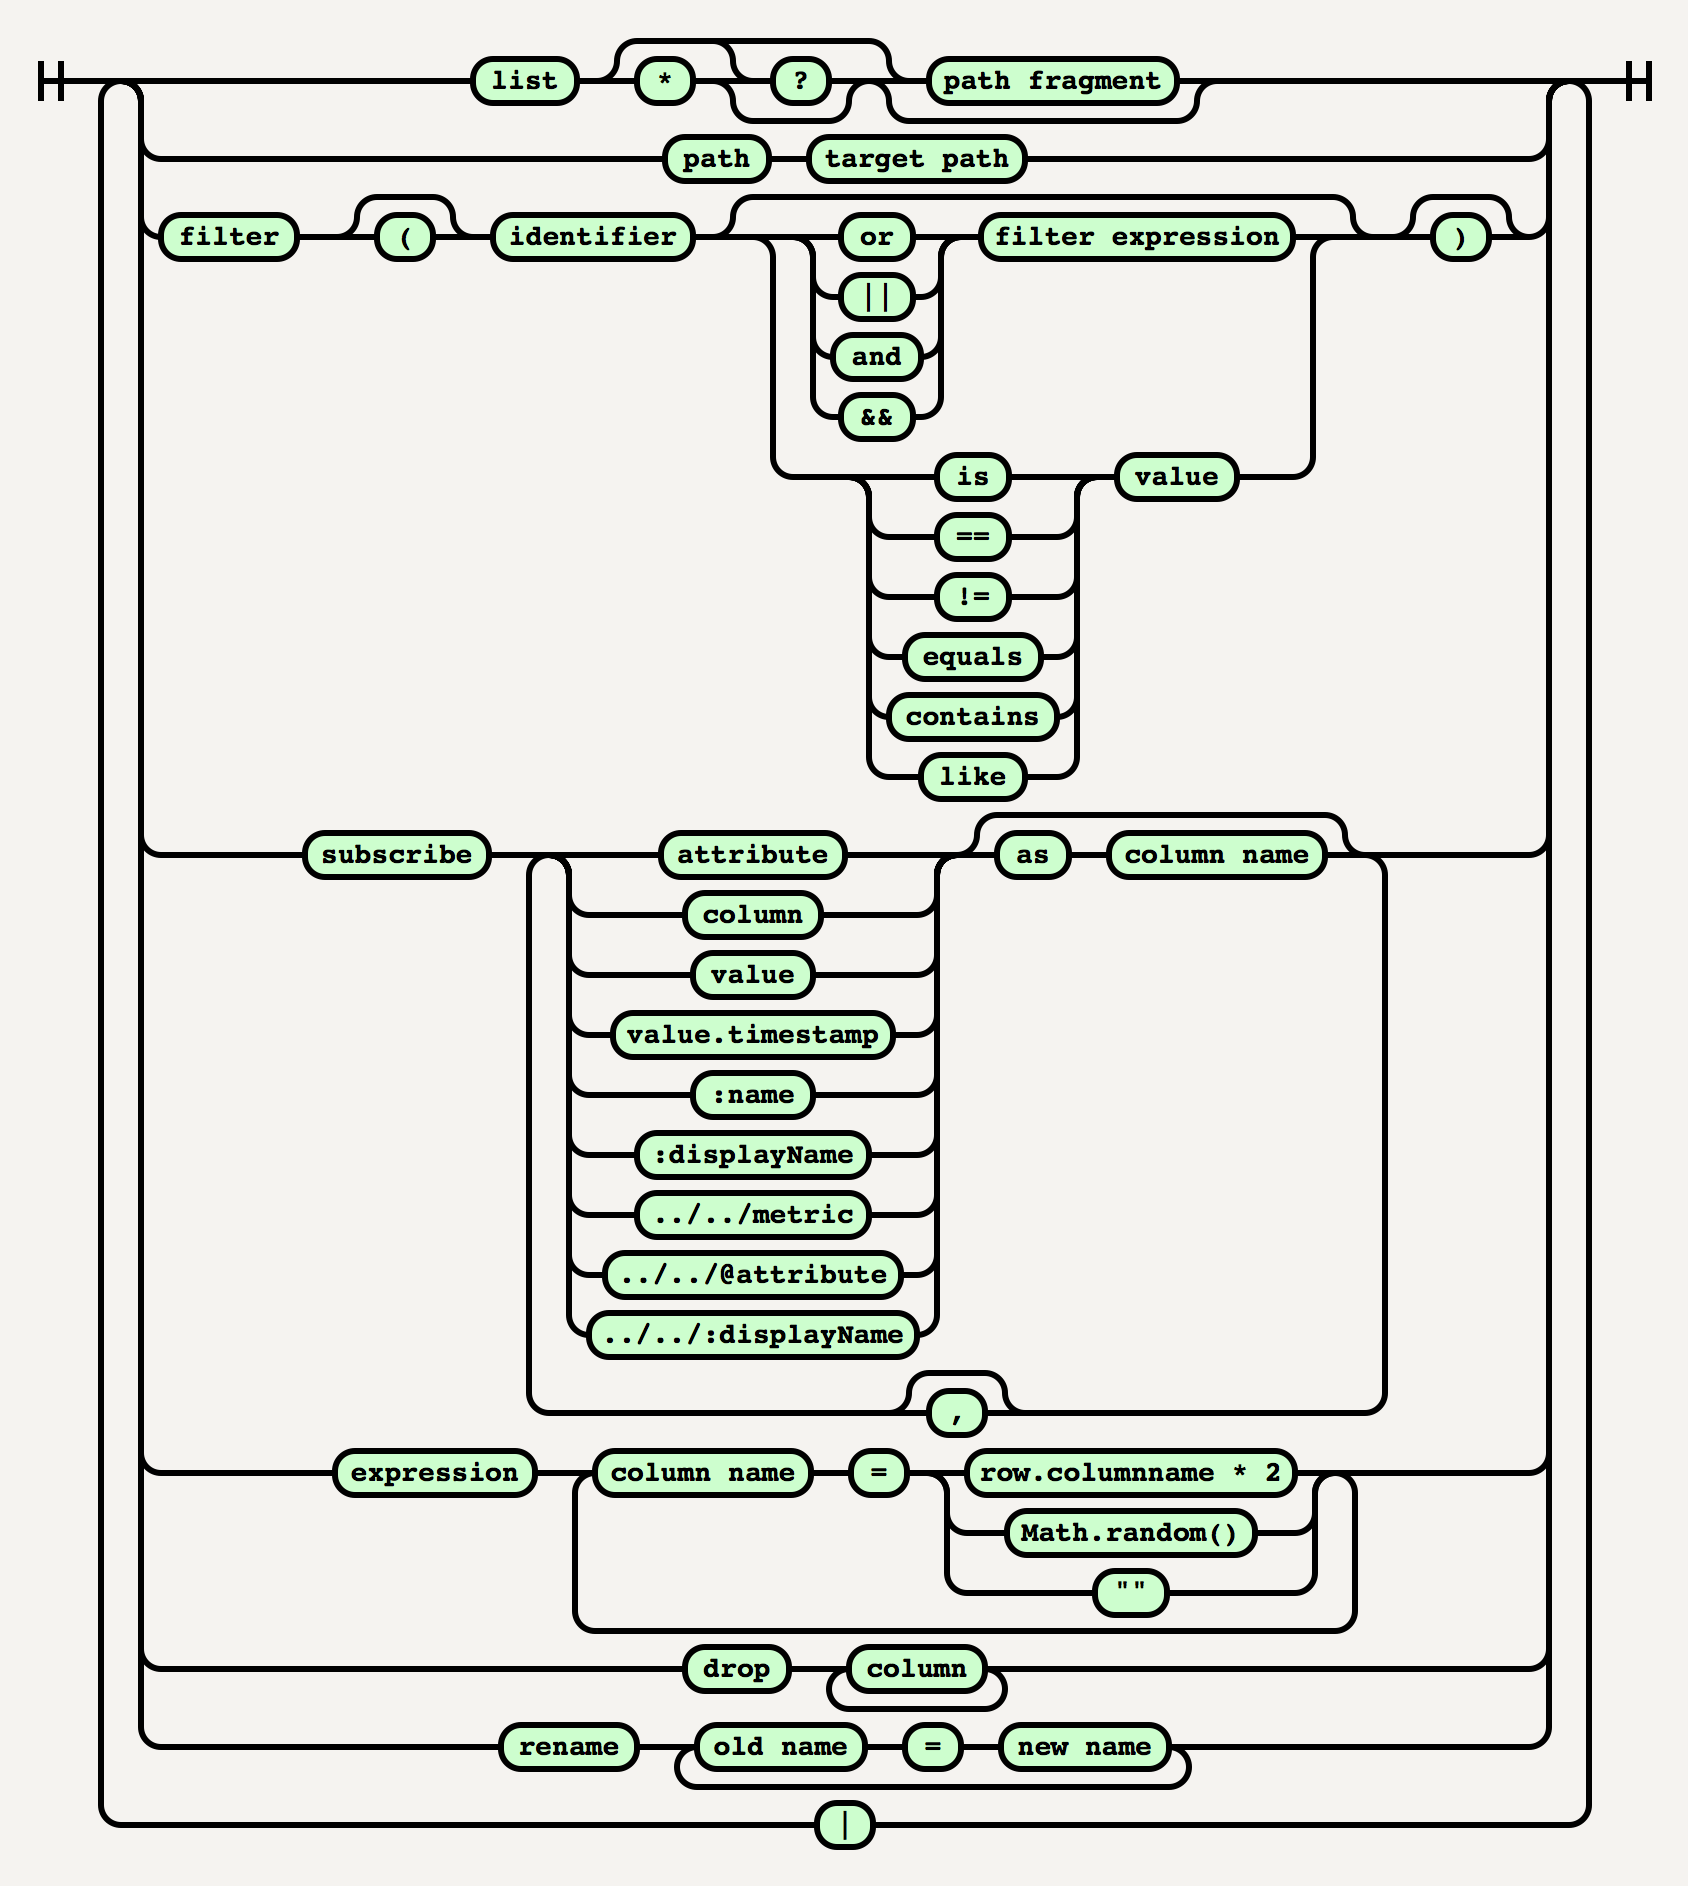
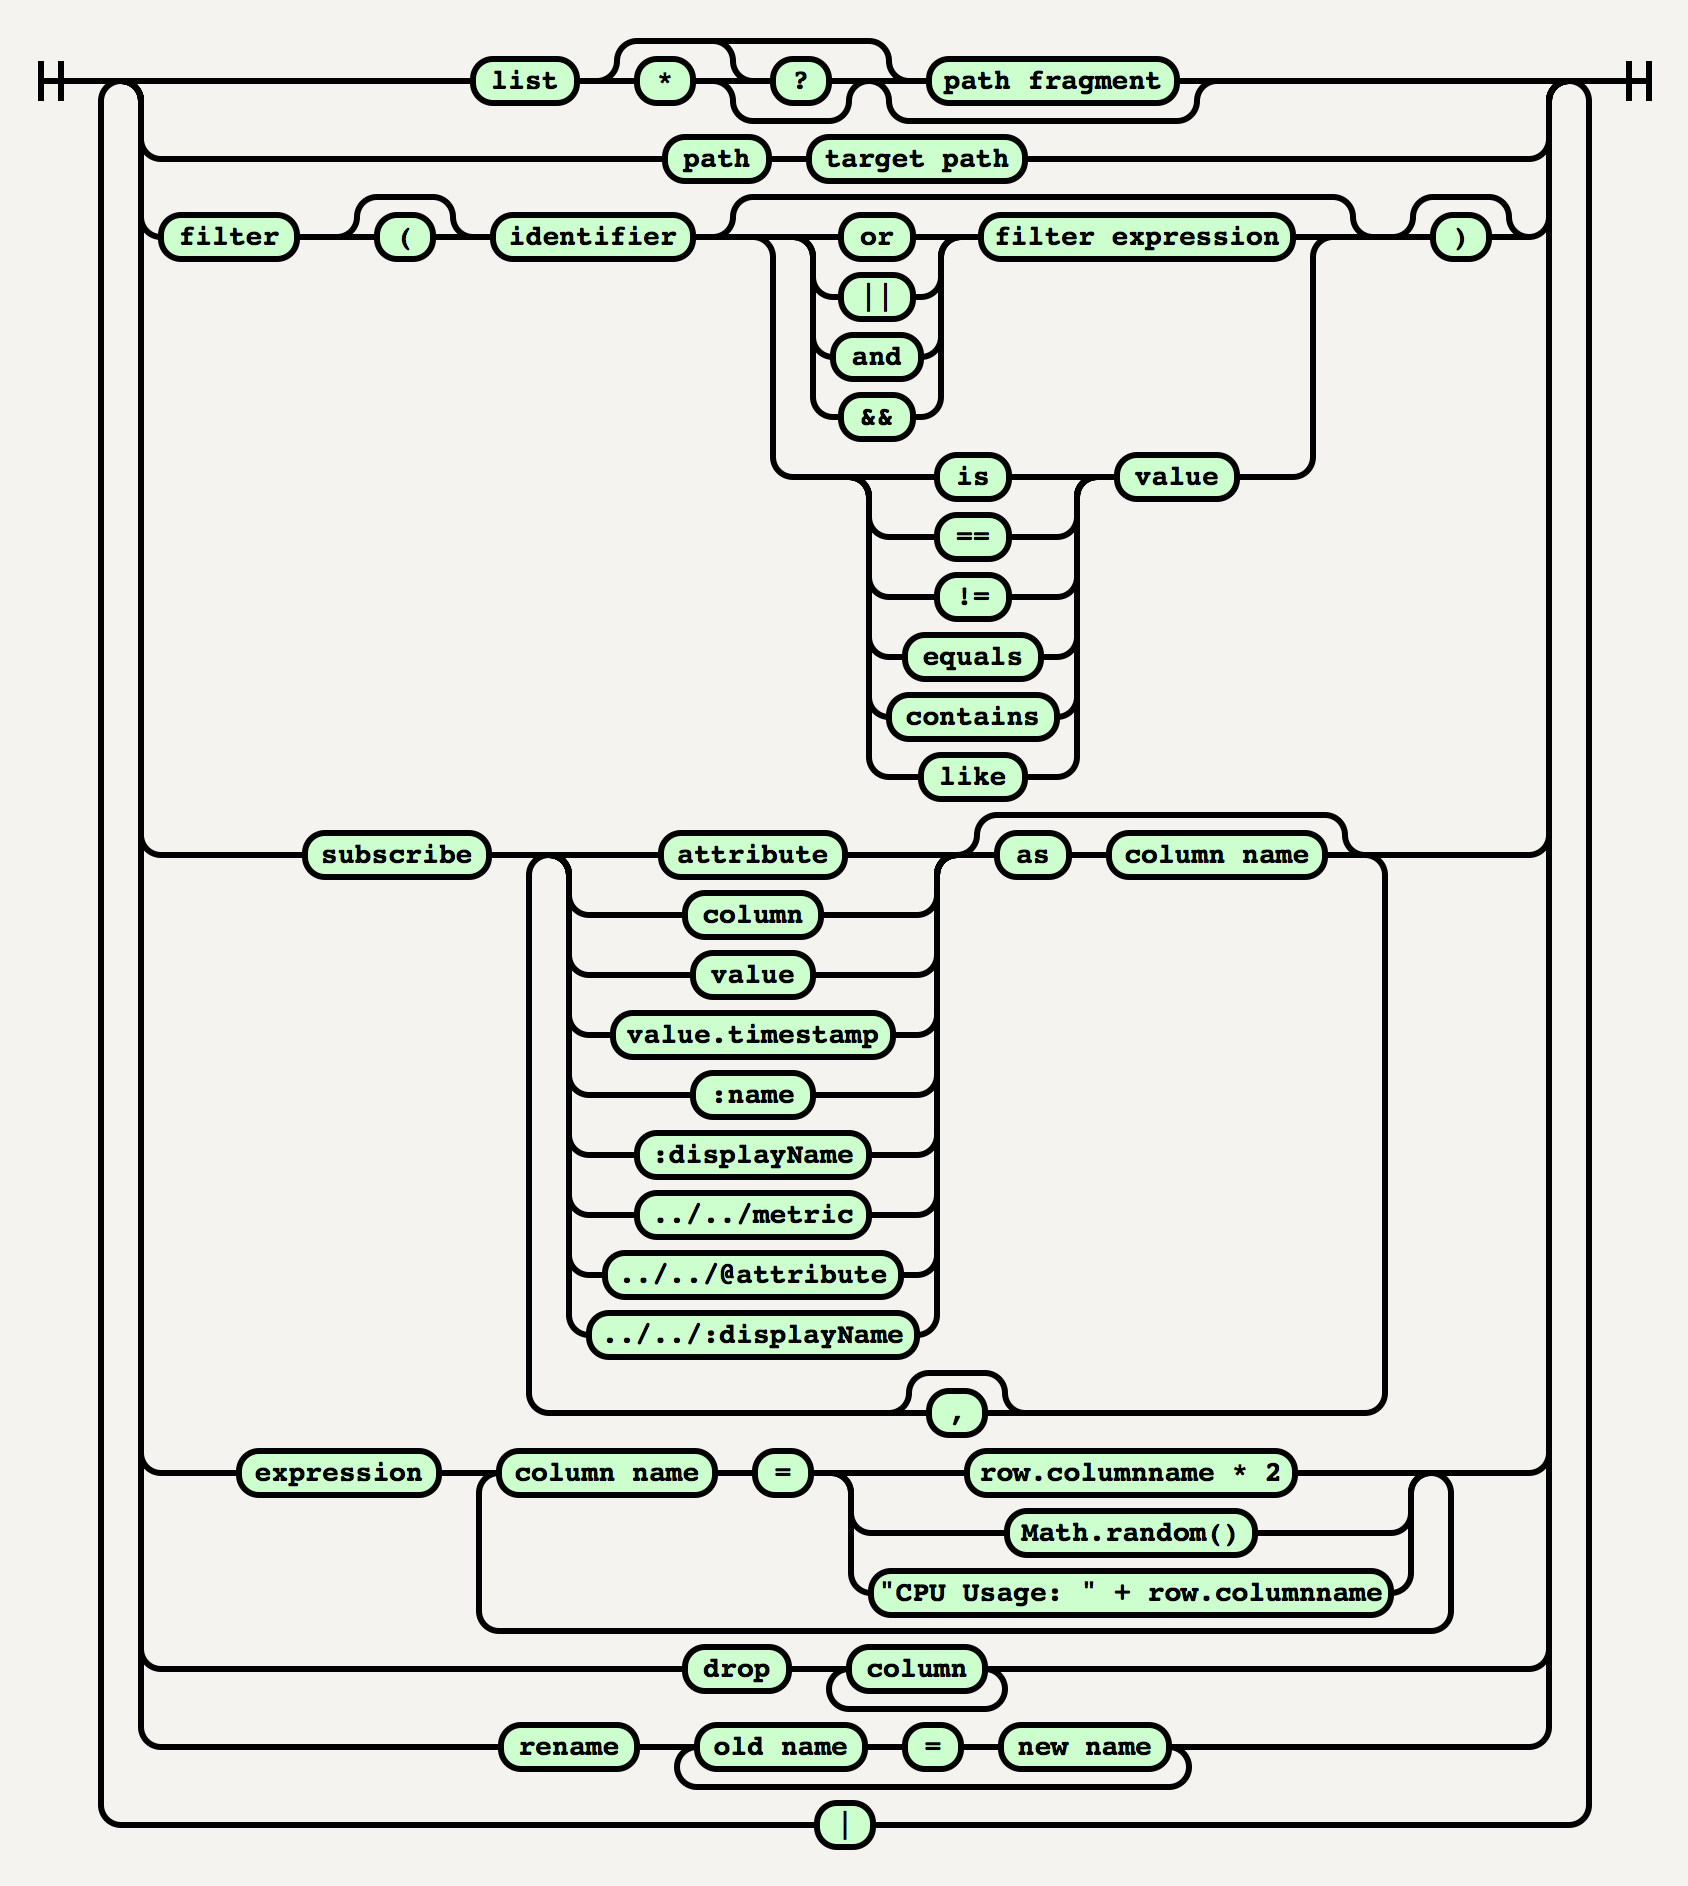
Fix diagram.

Changed region(s): [[0.4929, 0.7688, 0.8626, 0.8918], [0.1232, 0.7688, 0.4621, 0.8611], [0.3081, 0.8611, 0.3389, 0.8918]]

diff --git a/tool/diagram.js b/tool/diagram.js
@@ -87,7 +87,7 @@ _diagram = Diagram(
               0,
               "row.columnname * 2",
               "Math.random()",
-              '""'
+              '"CPU Usage: " + row.columnname'
             )
           )
         )

diff --git a/lib/query.dart b/lib/query.dart
@@ -22,6 +22,7 @@ part "src/commands/path.dart";
 part "src/commands/drop.dart";
 part "src/commands/expression.dart";
 part "src/commands/rename.dart";
+part "src/commands/invoke.dart";
 
 part "src/query/basic_context.dart";
 

diff --git a/lib/src/commands/invoke.dart b/lib/src/commands/invoke.dart
@@ -1,0 +1,1 @@
+part of dslink.dql.query;
